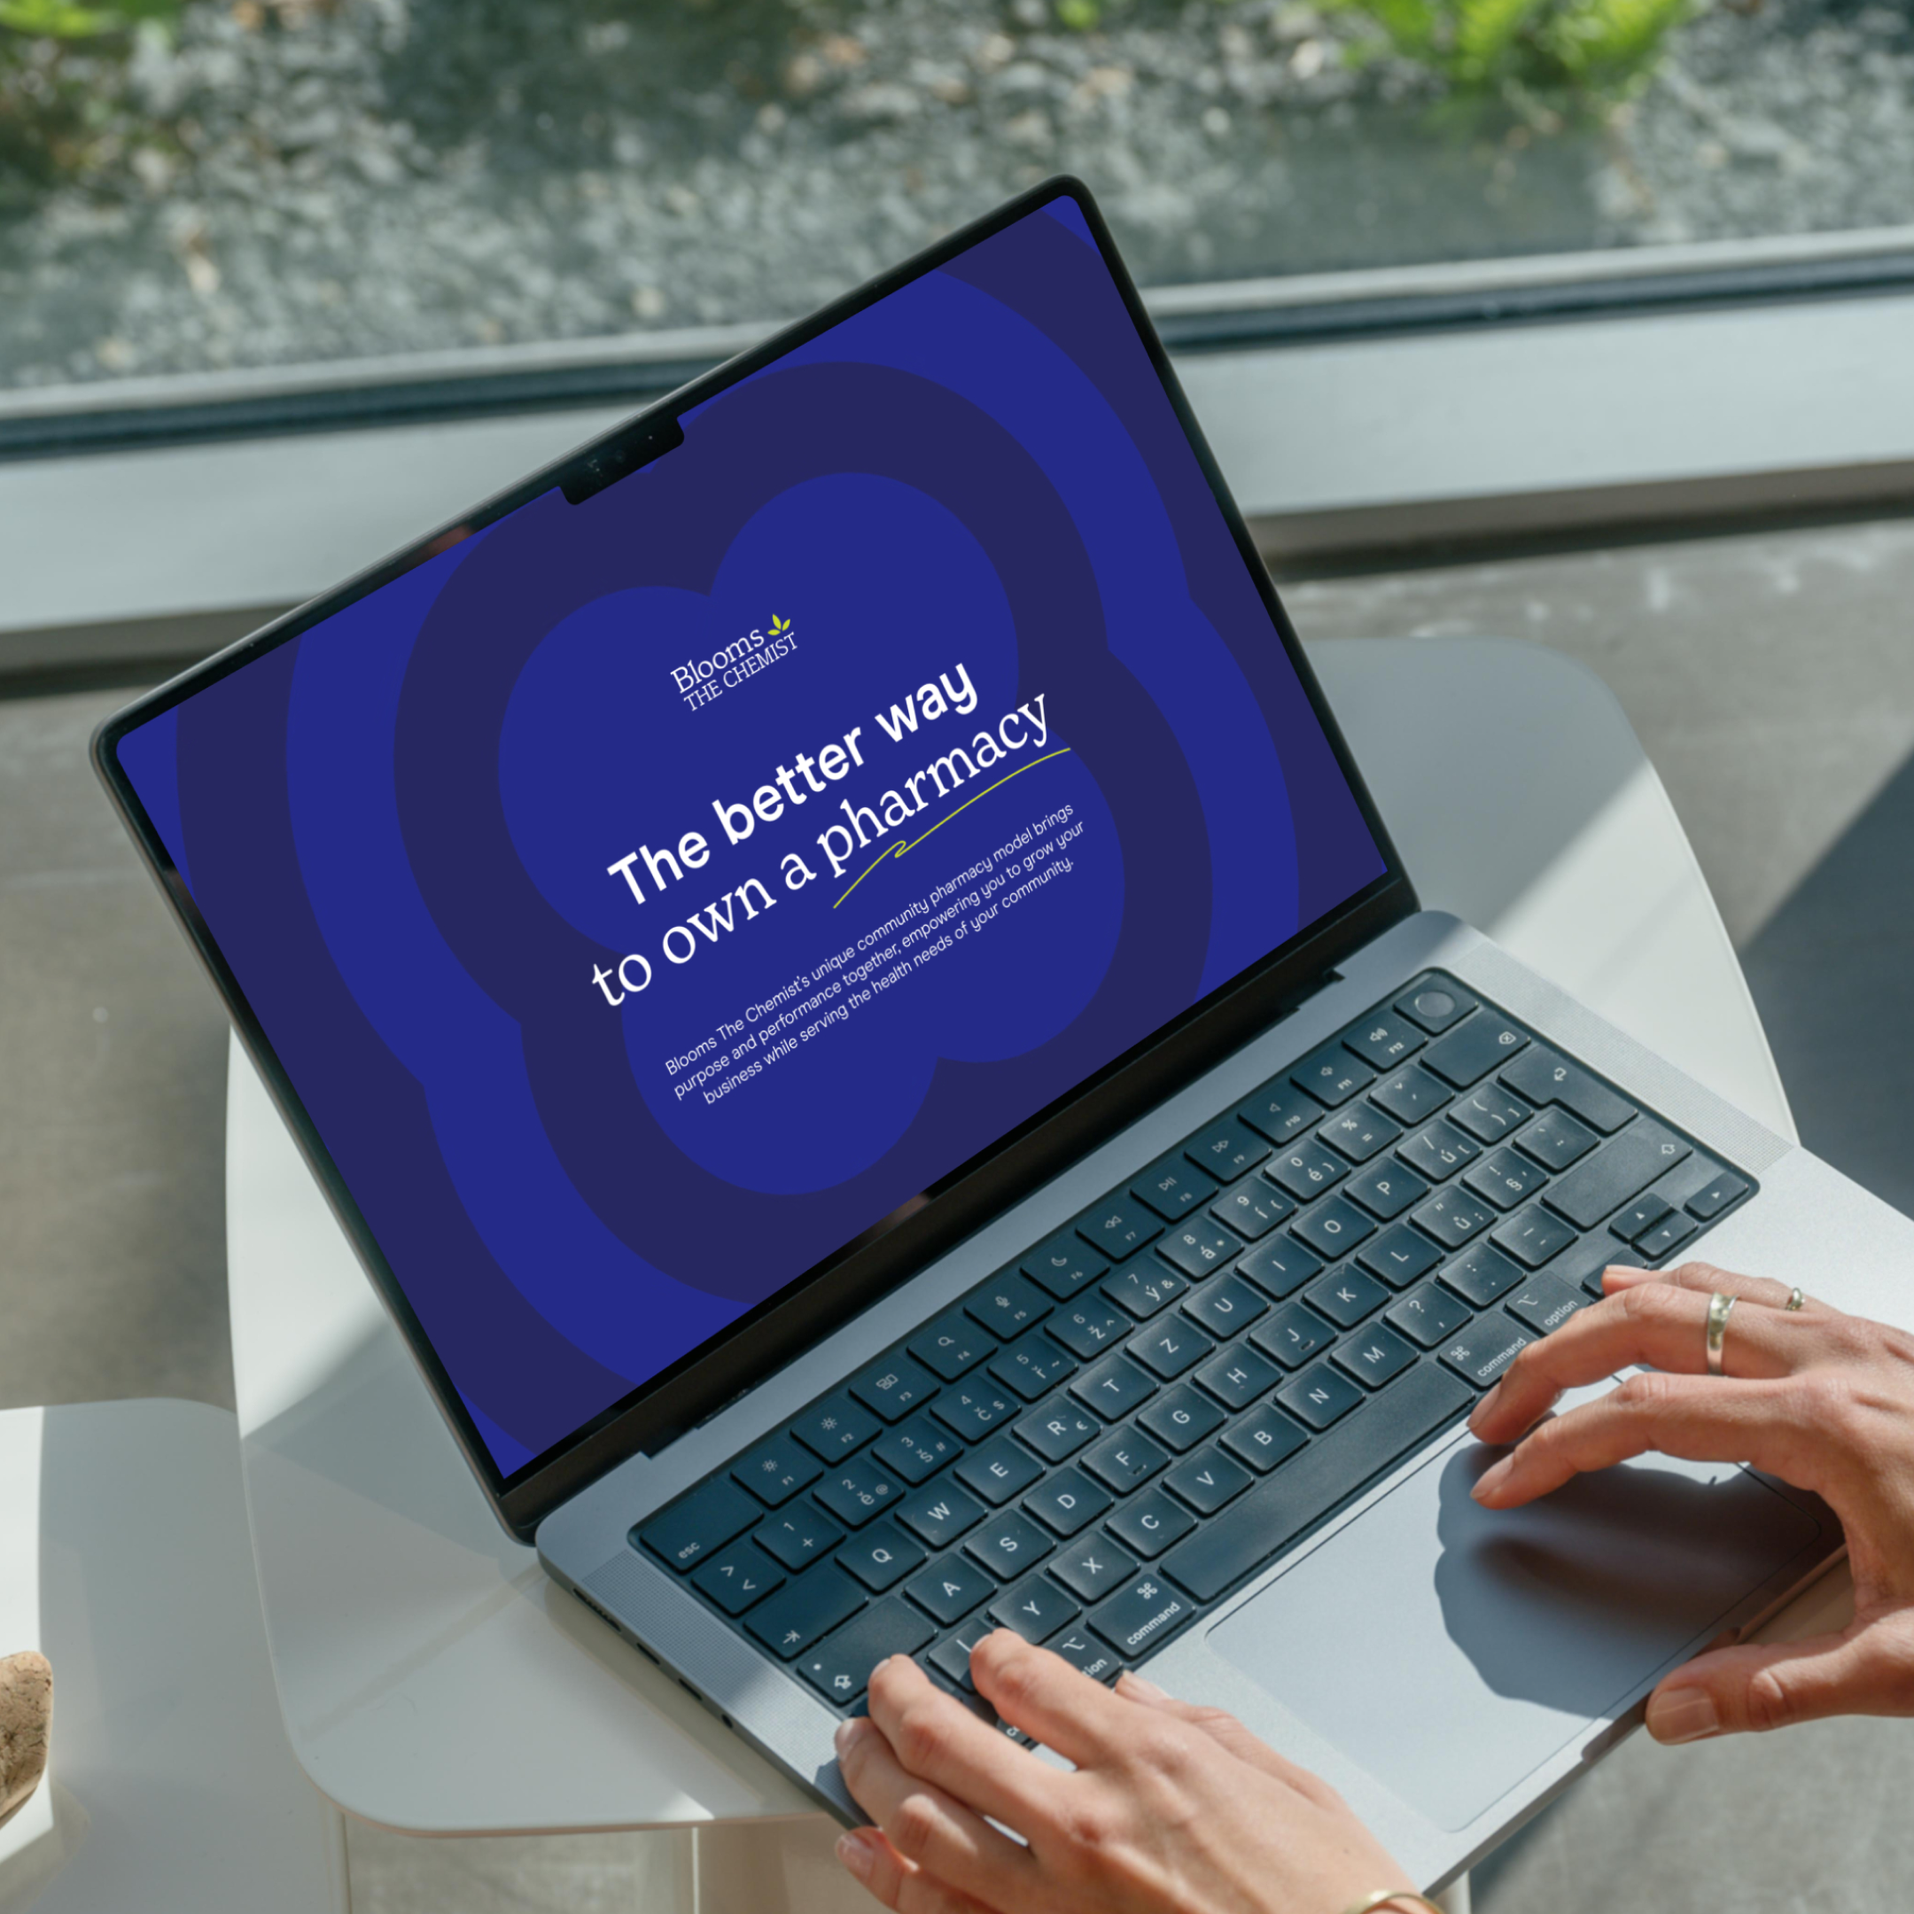
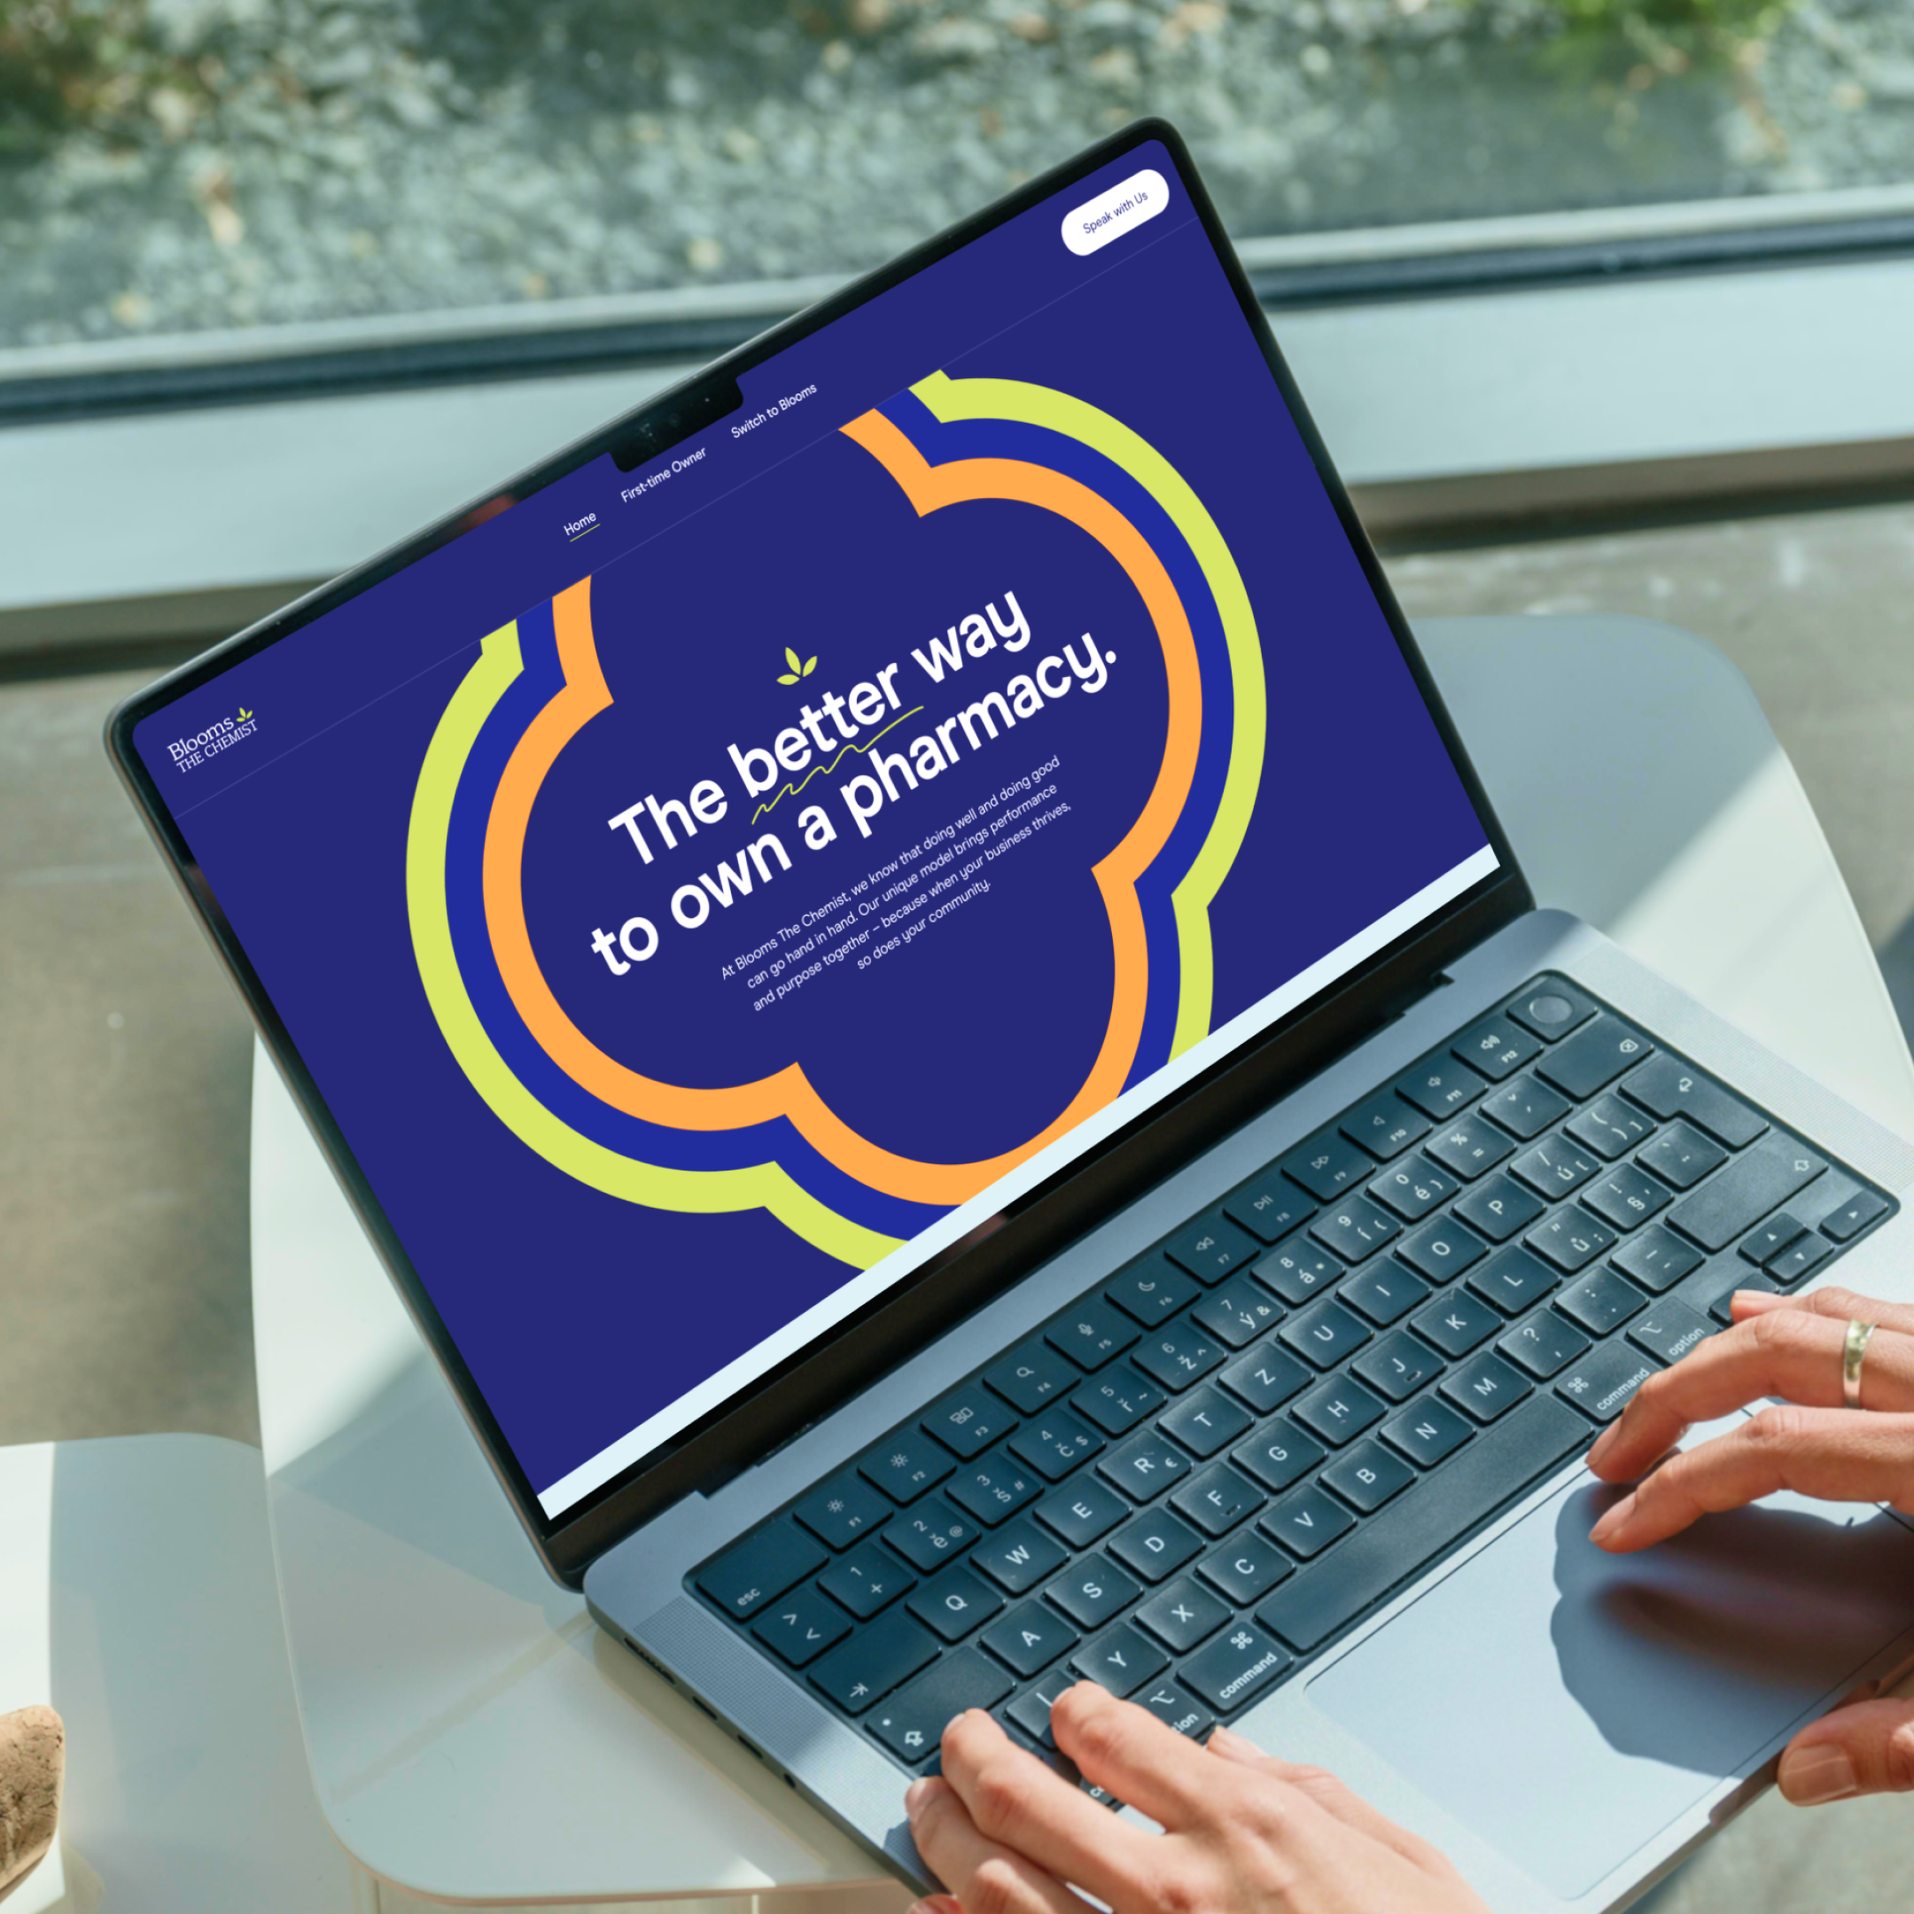
new blooms

diff --git a/src/css/style.css b/src/css/style.css
@@ -71,9 +71,9 @@
     width: 100%;
     height: 100%;
     object-fit: contain;
+    border-radius: 8px;
     will-change: transform;
     transition: transform 900ms cubic-bezier(0.22, 1, 0.36, 1);
-    overflow: hidden;
   }
 
   .img-hover {
